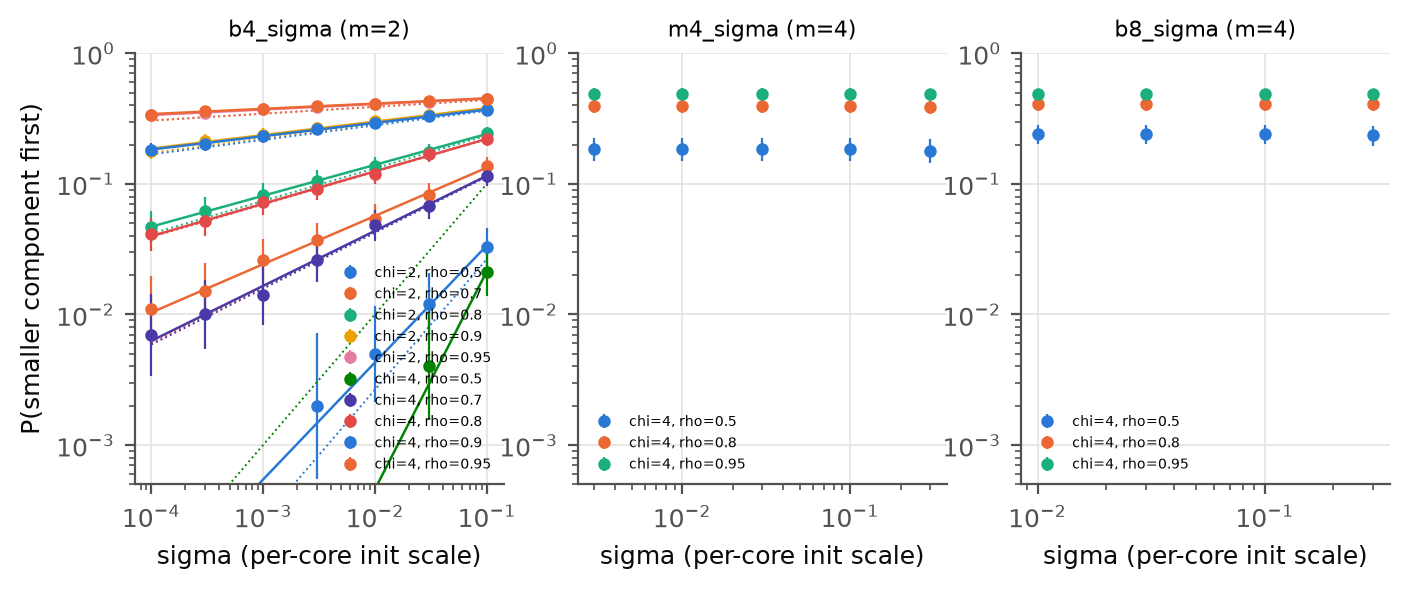
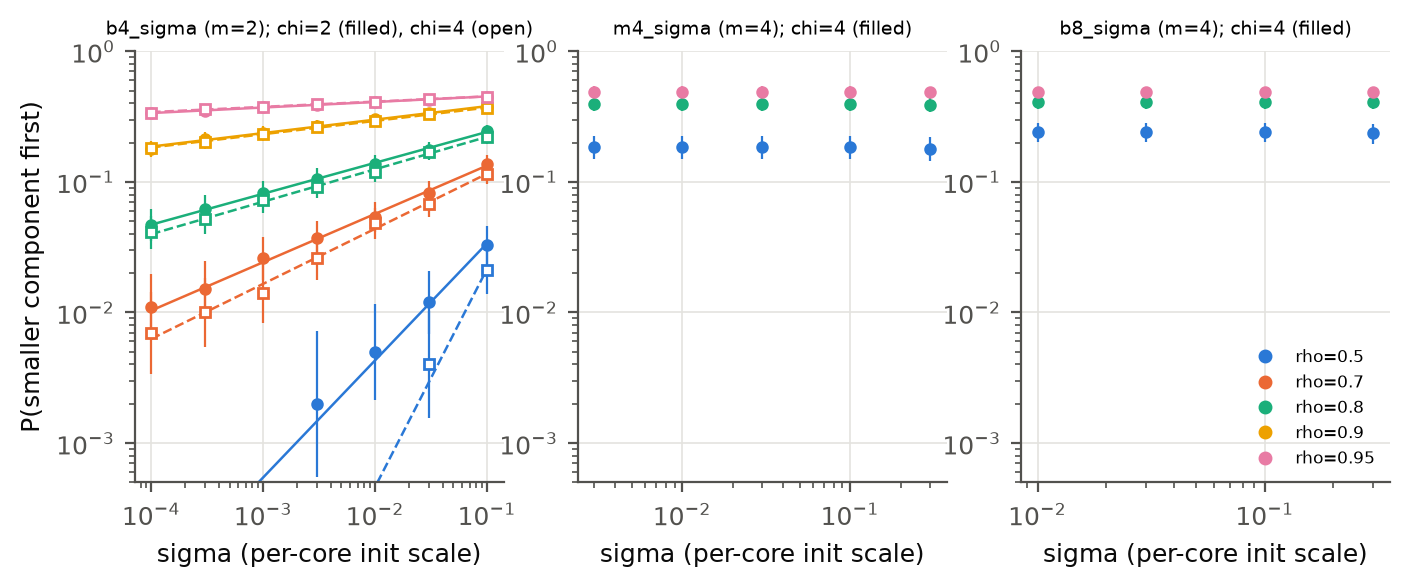
order: notes 7.2-7.3 (sigma scans, H1b)

diff --git a/experiments/order/analyze_sigma.py b/experiments/order/analyze_sigma.py
@@ -109,26 +109,33 @@ def main():
     style.setup()
     groups = [s for s in names if s in set(tab.sweep)]
     fig, axes = plt.subplots(1, len(groups), figsize=(2.7 * len(groups), 2.8), squeeze=False)
+    rho_list = sorted(tab.rho.unique())
     for ax, name in zip(axes[0], groups):
         sub = tab[tab.sweep == name]
-        for ci, (key, g) in enumerate(sub.groupby(["chi", "rho"])):
-            col = style.SERIES[ci % len(style.SERIES)]
+        chis = sorted(sub.chi.unique())
+        for (chi, rho), g in sub.groupby(["chi", "rho"]):
+            col = style.SERIES[rho_list.index(rho)]  # colour = rho, marker fill = chi
+            filled = chi == chis[0]
             ok = g["sum"] > 0
             ax.errorbar(g.sigma[ok], g.p_wrong[ok],
                         yerr=[(g.p_wrong - g.ci_lo)[ok], (g.ci_hi - g.p_wrong)[ok]],
-                        fmt="o", color=col, ms=3.5, lw=0, elinewidth=0.8,
-                        label=f"chi={key[0]}, rho={key[1]}")
-            f = fits[(fits.sweep == name) & (fits.chi == key[0]) & (fits.rho == key[1])]
+                        fmt="o" if filled else "s", color=col, mfc=col if filled else "white",
+                        ms=3.5, lw=0, elinewidth=0.8,
+                        label=f"rho={rho}" if filled else None)
+            f = fits[(fits.sweep == name) & (fits.chi == chi) & (fits.rho == rho)]
             if M_OF.get(name) == 2 and len(f) and np.isfinite(f.gamma.iloc[0]):
                 ss = np.geomspace(g.sigma.min(), g.sigma.max(), 50)
-                ax.plot(ss, f.C.iloc[0] * ss ** f.gamma.iloc[0], color=col, lw=0.9)
-                ax.plot(ss, f.C.iloc[0] * ss ** f.gamma_pred.iloc[0], color=col, lw=0.7, ls=":")
+                ax.plot(ss, f.C.iloc[0] * ss ** f.gamma.iloc[0], color=col, lw=0.9,
+                        ls="-" if filled else "--")
         ax.set_xscale("log")
         ax.set_yscale("log")
         ax.set_ylim(5e-4, 1)
         ax.set_xlabel("sigma (per-core init scale)")
-        ax.set_title(f"{name} (m={M_OF.get(name)})", fontsize=8)
-        ax.legend(fontsize=5)
+        chi_txt = ", ".join(f"chi={c}" + (" (filled)" if c == chis[0] else " (open)") for c in chis)
+        ax.set_title(f"{name} (m={M_OF.get(name)}); {chi_txt}", fontsize=7)
+    handles = [plt.Line2D([], [], color=style.SERIES[i], marker="o", lw=0, ms=4, label=f"rho={r}")
+               for i, r in enumerate(rho_list)]
+    axes[0][-1].legend(handles=handles, fontsize=6, loc="lower right")
     axes[0][0].set_ylabel("P(smaller component first)")
     fig.savefig(RES / "sigma_scan.png")
     plt.close(fig)

diff --git a/notes/order.md b/notes/order.md
@@ -102,7 +102,72 @@ See `agent-runs/order/REPORT.md` (Results, step 1) for the table and numbers; da
 `experiments/order/results/main_summary.csv`, figure `results/main_pg_vs_rho.png`. Full GF, sigma = 0.01,
 400 seeds x 6 rho x 28 settings.
 
-### 7.2-7.5 (sigma scans, controls, chi scan, H1b, R >= 3): pending
+### 7.2 sigma dependence: m = 2 versus m >= 3 (complete)
+
+Full GF (RK45 with event location, rtol 1e-9, atol 1e-14), d = 2. Commands `sweep.py configs/b4_sigma.yaml`
+(binary4, chi 2 and 4, 1000 seeds, sigma 1e-4..0.1), `m4_sigma.yaml` (MPS4, chi 4, 400 seeds, sigma
+0.003-0.3), `b8_sigma.yaml` (binary8, chi 4, 400 seeds, sigma 0.01-0.3); `analyze_sigma.py`;
+`results/sigma_table.csv`, `results/sigma_fits.csv`, `results/sigma_scan.png`.
+
+- **m >= 3: P(greedy) does not depend on sigma** [empirical, confirms O1]. MPS4: P(smaller first) =
+  0.185 / 0.395 / 0.490 at rho = 0.5 / 0.8 / 0.95 for every sigma in 0.003-0.1; binary8: 0.240 / 0.4075 /
+  0.4875 for every sigma in 0.01-0.1. Per seed the winner is the same at all sigma <= 0.1 for 99.0-100% of
+  seeds (the few changes are at sigma = 0.3). Fitted gamma = 0.000 +- 0.004.
+- **m = 2 (binary4): P(smaller first) = C sigma^gamma** [empirical; exponent derived in section 5].
+  Fits over sigma = 1e-4..1e-2 (binomial ML, SE from a bootstrap over seeds, because the same seeds are
+  used at every sigma):
+
+  | rho | (1-rho)/rho | gamma, chi = 2 | gamma, chi = 4 |
+  |---|---|---|---|
+  | 0.7 | 0.429 | 0.35 +- 0.05 | 0.45 +- 0.09 |
+  | 0.8 | 0.250 | 0.232 +- 0.027 | 0.232 +- 0.028 |
+  | 0.9 | 0.111 | 0.110 +- 0.010 | 0.105 +- 0.010 |
+  | 0.95 | 0.053 | 0.045 +- 0.005 | 0.041 +- 0.005 |
+
+  Agreement within 1.5 SE for rho = 0.7-0.9; rho = 0.95 is 1.6-2.4 SE low (P(smaller first) >= 0.33 at
+  all sigma, i.e. far from the small-P regime the derivation assumes). rho = 0.5: wrong order only at
+  sigma >= 3e-3 (P = 0.033 / 0.021 at sigma = 0.1 for chi 2 / 4; 0 of 1000 at sigma <= 1e-3).
+  Wrong-order seeds at small sigma are (nearly) a subset of those at large sigma, as the threshold
+  picture (delta_0 < sigma^gamma) predicts. Values agree with the independent GF table of
+  `notes/theory_escape.md` 5.5 (rho = 0.7, d = chi = 2: 0.137 / 0.054 / 0.026 here vs their estimate
+  0.155 / 0.064 / 0.024 at sigma = 0.1 / 0.01 / 0.001).
+
+### 7.3 H1b (complete)
+
+Full GF with LSODA and the exact Hessian (rtol 1e-10, atol 1e-15), event times by root finding on the
+dense output, gauge-projected Hessian (`ttn.diagnostics`) at the minimum-speed point between the two
+events. `h1b.py configs/h1b_*.yaml`, `analyze_h1b.py`; `results/h1b_*.csv`, `results/h1b_fits.csv`,
+figures `results/h1b_correction_time.png`, `results/h1b_natural.png`, `results/h1b_example.png`.
+
+1. **Controlled start at the wrong saddle, binary4 (m = 2)**: component 2 learned exactly (balanced,
+   amplitude rho^(1/3)) plus a fan-in perturbation of scale sigma; 8 seeds x 6 sigma (1e-7..1e-2) x 4 rho,
+   d = 2, chi = 4. In all 192 runs the learned bond index rotates to component 1 (a_2 falls below 6e-4,
+   the second singular value stays ~0), the loss then sits at s_2^2/2 = 0.125 / 0.245 / 0.32 / 0.405, and
+   component 2 is relearned after ~sigma^-1. **Strict saddle by the primary rule**: lambda_min at the
+   plateau midpoint is sigma-independent (per-seed exponent of |lambda_min| vs sigma: 0.000) and equals
+   -0.39685 / -0.26637 / -0.18566 / -0.09655 to 5 digits for rho = 0.5 / 0.7 / 0.8 / 0.9 (prediction
+   -(1-rho) rho^(1/3): identical). **Correction time = ln(1/sigma)/|lambda_min| + const**: per-seed
+   slopes of t_corr vs ln(1/sigma) 2.555 +- 0.036, 3.809 +- 0.056, 5.466 +- 0.082, 10.51 +- 0.16 vs
+   1/|lambda_min| = 2.520, 3.754, 5.386, 10.357 (ratio 1.014-1.015, within 1 SE). A power law
+   t = c sigma^-p fits 10x worse in the same space (rms 1.5-6.0 vs 0.13-0.56; p = 0.08).
+2. **Controlled start, MPS4 (m = 4)**: no rotation (a_2 >= 0.96 when a_1 crosses 1/2), component 1 is
+   added in a new bond index; |lambda_min| at the midpoint scales as sigma^2.007 +- 0.016 (rho 0.5) and
+   sigma^2.000 +- 0.014 (rho 0.8), i.e. a higher-order saddle (k - 2 = 2); t_1 ~ sigma^-1.97 +- 0.03. The
+   fixed 1e-3 threshold would call some sigma = 0.05-0.1 midpoints strict (n_neg up to 1.6 on average),
+   the scaling rule does not.
+3. **Natural wrong-order runs, binary4** (the seeds whose first event was component 2 in b4_sigma, chi = 4;
+   up to 40 per (rho, sigma), rho 0.7-0.9, sigma 1e-4..0.1; 421 runs): for sigma <= 0.01, 92.5-100% rotate
+   (the rest add component 1 in a new index); at sigma = 0.1 only 2.5-42% rotate (the 3-core add route,
+   ~sigma^-1 = 10, competes). For the rotating runs |lambda_pred| (t_1 - t_2) has mean 1.07-1.38
+   (SE 0.14-0.30) at every sigma from 1e-4 to 1e-2: **no ln(1/sigma) growth**, as predicted in section 5
+   (a log law would raise it by ln 100 = 4.6 over this range). The wrong "plateau" is not resolved:
+   separation ratio (t_1 - t_2)/max(width) has median 0.3-0.6, > 3 in 0-7.5% of runs; lambda_min at the
+   minimum-speed point lies between 0 and the saddle value. So in natural runs a wrong order shows up as a
+   brief overshoot of the smaller component, then a plateau at s_2^2/2 with the smaller component
+   forgotten, then its relearning.
+4. **Natural wrong-order runs, MPS4 (m = 4)**: (pending)
+
+### 7.4-7.5 (controls, chi scan, R >= 3): pending
 
 ## 8. Status of H1 and H1b (to be finalized)
 
